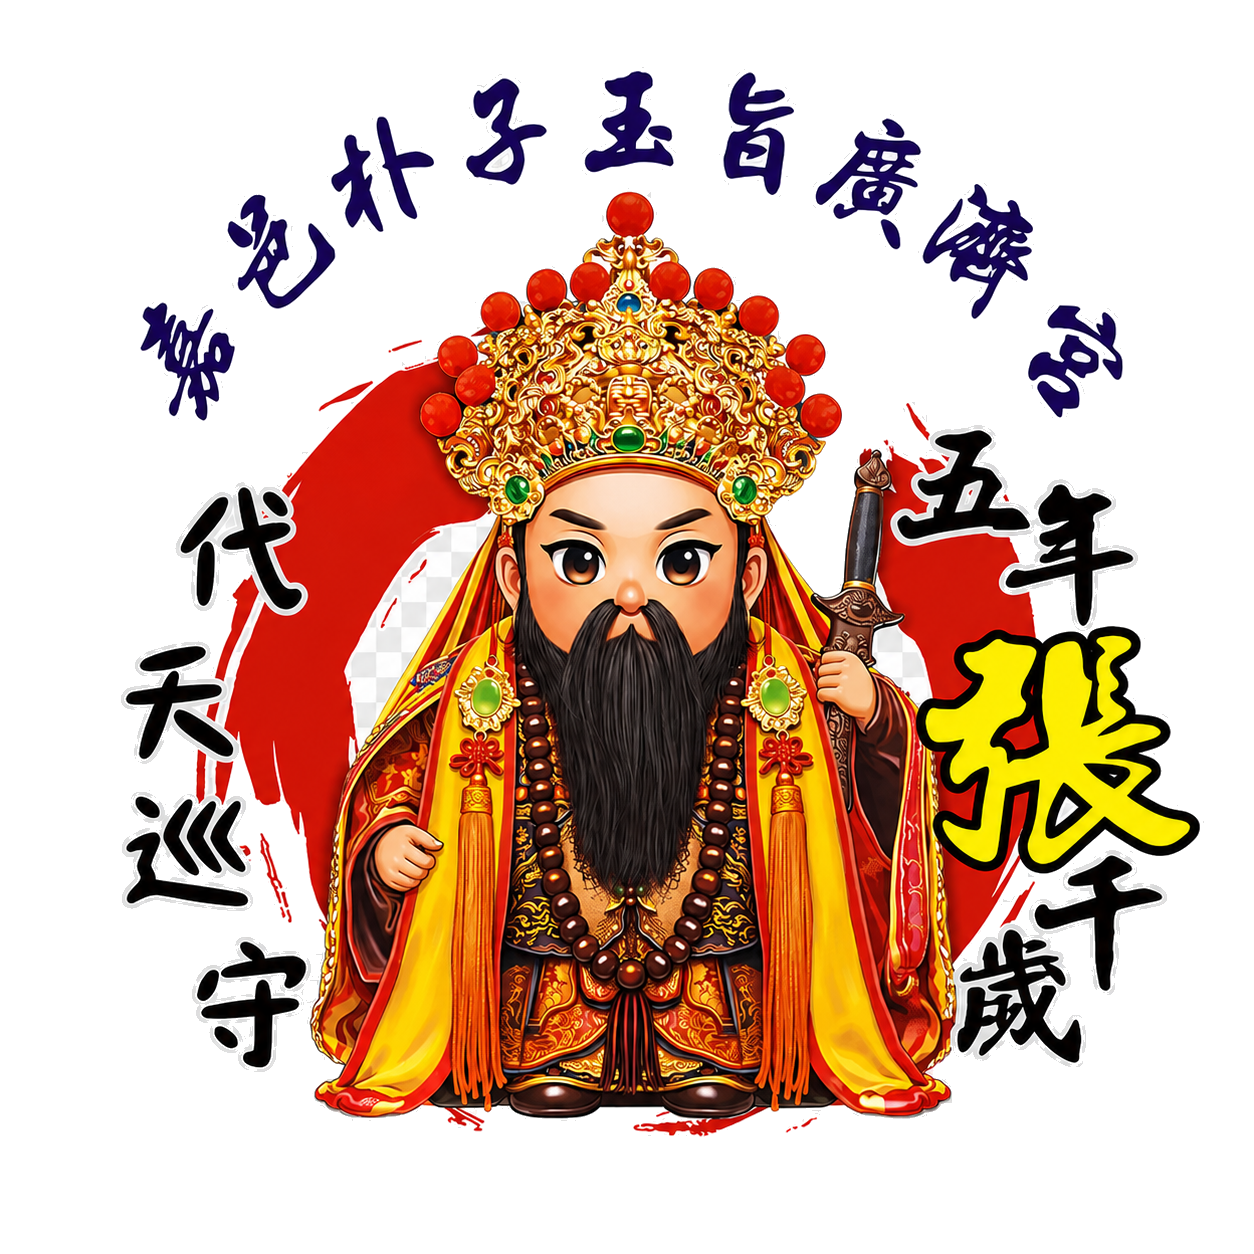
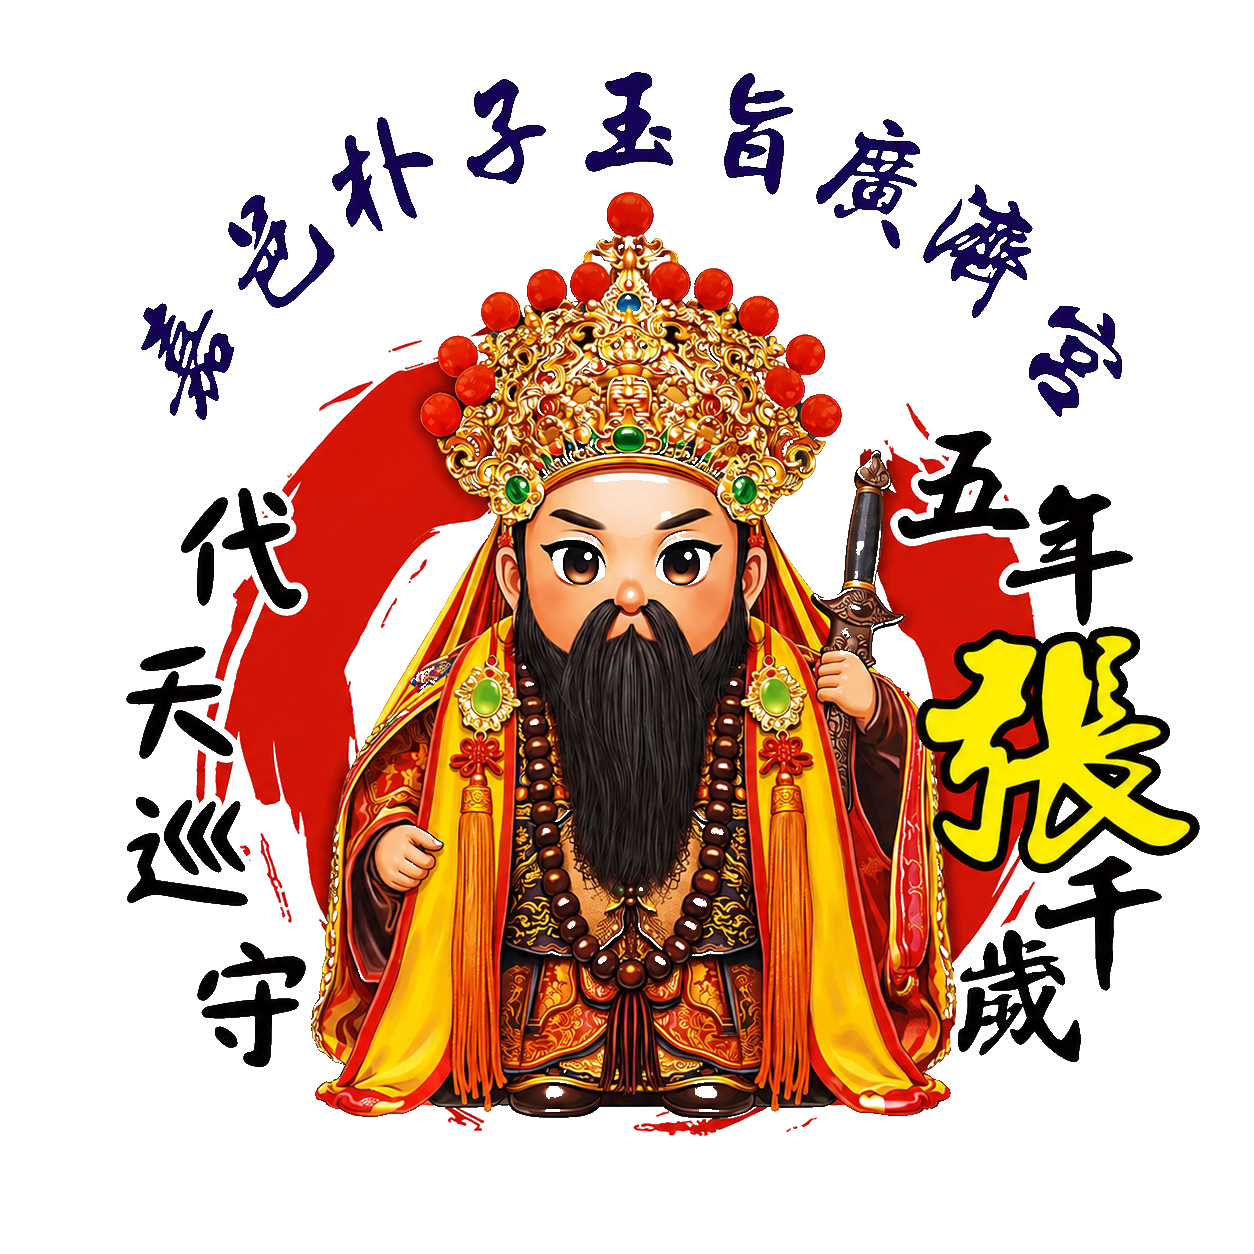
Add files via upload

diff --git a/about.html b/about.html
@@ -4,7 +4,7 @@
   <meta charset="UTF-8">
   <meta name="viewport" content="width=device-width, initial-scale=1.0">
   <title>關於我們｜昌久貹補財補庫</title>
-  <meta name="description" content="昌久貹宮廟緣起：嘉義玉旨廣濟宮、玉旨聖妃殿、張千歲與慈鳳媽信仰介紹。">
+  <meta name="description" content="昌久貹宮廟緣起 嘉義玉旨廣濟宮 玉旨聖妃殿 張千歲與慈鳳媽信仰介紹">
   <style>
     :root {
       --ink: #fff5d9;
@@ -113,7 +113,7 @@
     }
 
     .hero-copy {
-      max-width: 560px;
+      max-width: 640px;
     }
 
     .kicker {
@@ -141,8 +141,9 @@
 
     .hero p {
       margin: 0;
+      max-width: 720px;
       color: var(--ink-soft);
-      font-size: 17px;
+      font-size: 15px;
       line-height: 2;
     }
 
@@ -236,6 +237,7 @@
 
     .temple-card {
       padding: 24px;
+      text-align: center;
     }
 
     .temple-card h2,
@@ -296,7 +298,7 @@
       border-left: 4px solid var(--cinnabar);
       background: rgba(185, 63, 52, .2);
       color: #ffe7a6;
-      font-weight: 900;
+      font-weight: 400;
       line-height: 2;
     }
 
@@ -337,6 +339,31 @@
       color: var(--gold);
       font-size: 20px;
       letter-spacing: 4px;
+    }
+
+    .line-float-btn {
+      position: fixed;
+      right: 18px;
+      bottom: 18px;
+      z-index: 30;
+      display: inline-flex;
+      align-items: center;
+      justify-content: center;
+      min-height: 46px;
+      padding: 0 18px;
+      border-radius: 999px;
+      background: #06c755;
+      color: #fff;
+      font-size: 14px;
+      font-weight: 900;
+      box-shadow: 0 12px 28px rgba(0, 0, 0, .22);
+    }
+
+    .footer-copy {
+      margin-top: 16px;
+      color: rgba(255, 250, 240, .52);
+      font-size: 12px;
+      line-height: 1.8;
     }
 
     @media (max-width: 900px) {
@@ -426,12 +453,12 @@
 
   <header class="hero">
     <div class="deity-stage" aria-label="張千歲主神圖">
-      <img class="deity-image" src="assets/zhang-qiansui-transparent.png?v=3" alt="玉旨廣濟宮主神張千歲">
+      <img class="deity-image" src="assets/zhang-qiansui-transparent.png?v=5" alt="玉旨廣濟宮主神張千歲">
     </div>
     <div class="hero-copy">
       <div class="kicker">ABOUT OUR BELIEF</div>
       <h1>不迷信<br>但擁有自己的信仰</h1>
-      <p>我們以尊重、誠心與謹慎的態度，協助有需要的人完成一份對信仰的託付。這裡不是販售神蹟，而是把流程說清楚，把心意安放好。</p>
+      <p>我們以尊重、誠心、謹慎的態度協助有需要的人<br>完成一份對信仰的託付<br>這裡不是販售神蹟，而是把流程說清楚，把心意安放好</p>
       <div class="hero-actions">
         <a class="btn btn-primary" href="#temple-origin">閱讀宮廟緣起</a>
         <a class="btn btn-ghost" href="index.html">回到首頁</a>
@@ -444,12 +471,12 @@
       <article class="temple-card">
         <div class="kicker">YUZHI GUANGJI TEMPLE</div>
         <h2>玉旨廣濟宮</h2>
-        <p>主神：張千歲</p>
+        <p>主神 張千歲</p>
       </article>
       <article class="temple-card">
         <div class="kicker">YUZHI SHENGFEI HALL</div>
         <h2>玉旨聖妃殿</h2>
-        <p>主神：慈鳳媽</p>
+        <p>主神 慈鳳媽</p>
       </article>
     </section>
 
@@ -460,11 +487,13 @@
         <div class="story-line" aria-hidden="true"></div>
       </div>
       <div class="story-body">
-        <p>我們不是以乩身身份自居，而是在因緣際會之下走進嘉義玉旨廣濟宮與玉旨聖妃殿參拜，並逐步配合宮廟相關事宜與科儀服務。</p>
-        <p>玉旨廣濟宮主神為張千歲，玉旨聖妃殿主神為慈鳳媽。一路走來，我們從參拜、學習、協助，到承接相關宮廟事務，始終以尊重、誠心與謹慎的態度面對每一位前來請示與登記的信眾。</p>
-        <p>目前補財、補庫、化解冤親債主等相關項目，皆於嘉義玉旨廣濟宮依照宮廟科儀處理。我們不鼓勵盲目迷信，也不保證任何結果；我們相信的是，人可以有自己的信仰，也可以透過誠心、整理心念與正向行動，讓自己重新安定下來。</p>
+        <p>我本身不是乩身，而是在因緣際會之下走進嘉義玉旨廣濟宮與玉旨聖妃殿參拜，並參與了宮廟相關事宜與科儀服務。</p>
+        <p>玉旨廣濟宮主神為張千歲、玉旨聖妃殿主神為慈鳳媽。</p>
+        <p>一路走來我們從參拜、學習、協助，到承接相關宮廟事務，始終以尊重、誠心、謹慎的態度面對每一位前來請示與登記的信眾。</p>
+        <p>目前補財、補庫、化解冤親債主等相關項目，皆於嘉義玉旨廣濟宮依照宮廟科儀處理。我們不鼓勵盲目迷信，也不保證任何結果。</p>
+        <p>我們相信的是，人可以有自己的信仰，也可以透過誠心、整理心念與正向行動，讓自己重新安定下來。</p>
         <p>我們做的不是販售神蹟，而是協助有需要的人，透過正式科儀、清楚流程與真誠服務，完成一份對信仰的託付。</p>
-        <div class="belief-note">信仰不是替人承諾結果，而是讓人在困頓時，仍有一個能安放心念、重新整理自己的方向。</div>
+        <div class="belief-note">信仰不是替人承諾結果，而是讓人在困惑與迷茫時，仍有一個能安放心念、重新整理自己的方向。</div>
       </div>
     </section>
 
@@ -473,18 +502,18 @@
         <div class="kicker">RITUAL PROCESS</div>
         <h2>科儀流程</h2>
         <ol>
-          <li>確認登記項目與基本資料。</li>
-          <li>依玉旨廣濟宮科儀方式安排處理。</li>
-          <li>完成後回覆處理狀況與後續提醒。</li>
+          <li>確認登記項目與基本資料</li>
+          <li>依玉旨廣濟宮科儀方式安排處理</li>
+          <li>完成後回覆處理狀況與後續提醒</li>
         </ol>
       </article>
       <article id="faq" class="info-card">
         <div class="kicker">FAQ</div>
         <h2>常見問題</h2>
         <ul>
-          <li>補財、補庫與化解冤親債主等項目，皆依宮廟科儀處理。</li>
-          <li>我們不保證任何結果，也不鼓勵盲目迷信。</li>
-          <li>登記前若不確定項目，可先透過 LINE 詢問。</li>
+          <li>補財、補庫與化解冤親債主等項目，皆依宮廟科儀處理</li>
+          <li>我們不保證任何結果，也不鼓勵盲目迷信</li>
+          <li>登記前若不確定項目，可先透過 LINE 詢問</li>
         </ul>
       </article>
     </section>
@@ -492,7 +521,10 @@
 
   <footer class="site-footer">
     <strong>昌久貹｜補財補庫</strong>
-    <span>以清楚流程與真誠服務，完成一份對信仰的託付。</span>
+    <span>以清楚流程與真誠服務，完成一份對信仰的託付</span>
+    <div class="footer-copy">© 2026 昌久貹版權所有｜網站內容、圖片與文案未經授權請勿轉載、使用或仿製</div>
   </footer>
+
+  <a class="line-float-btn" href="https://line.me/ti/p/~lovebaby15" target="_blank">LINE 與我聯絡</a>
 </body>
 </html>